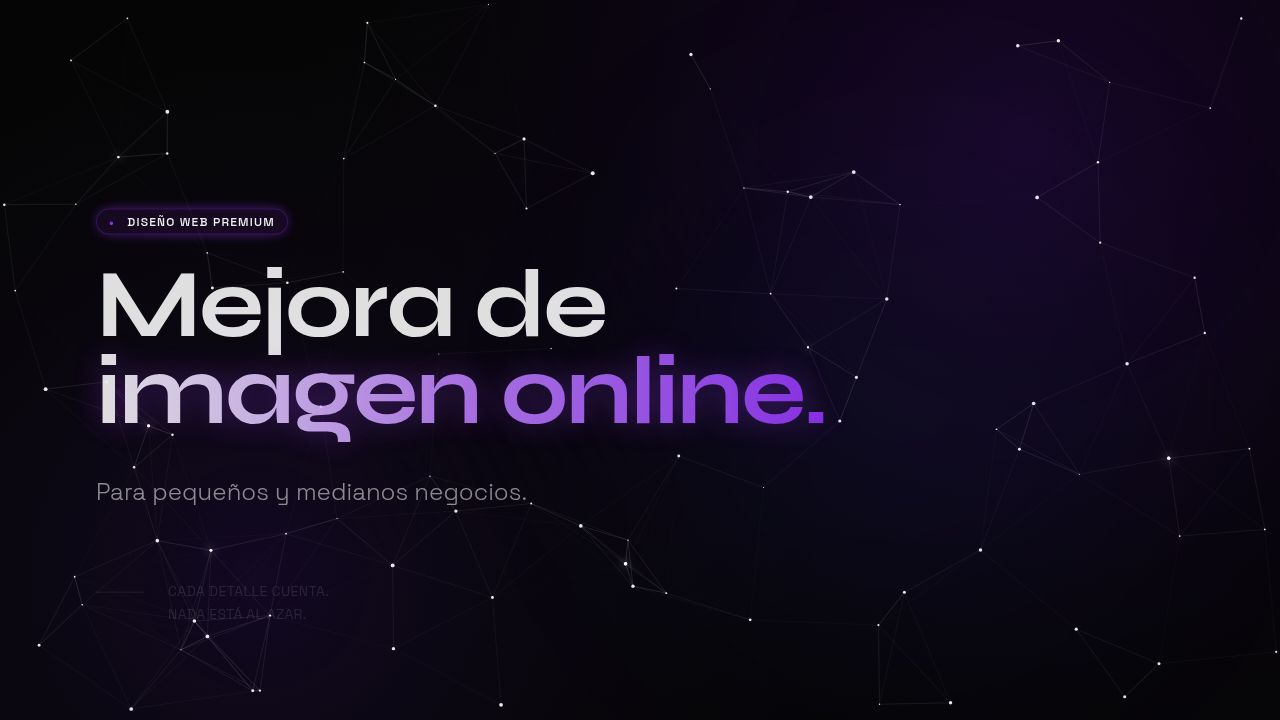
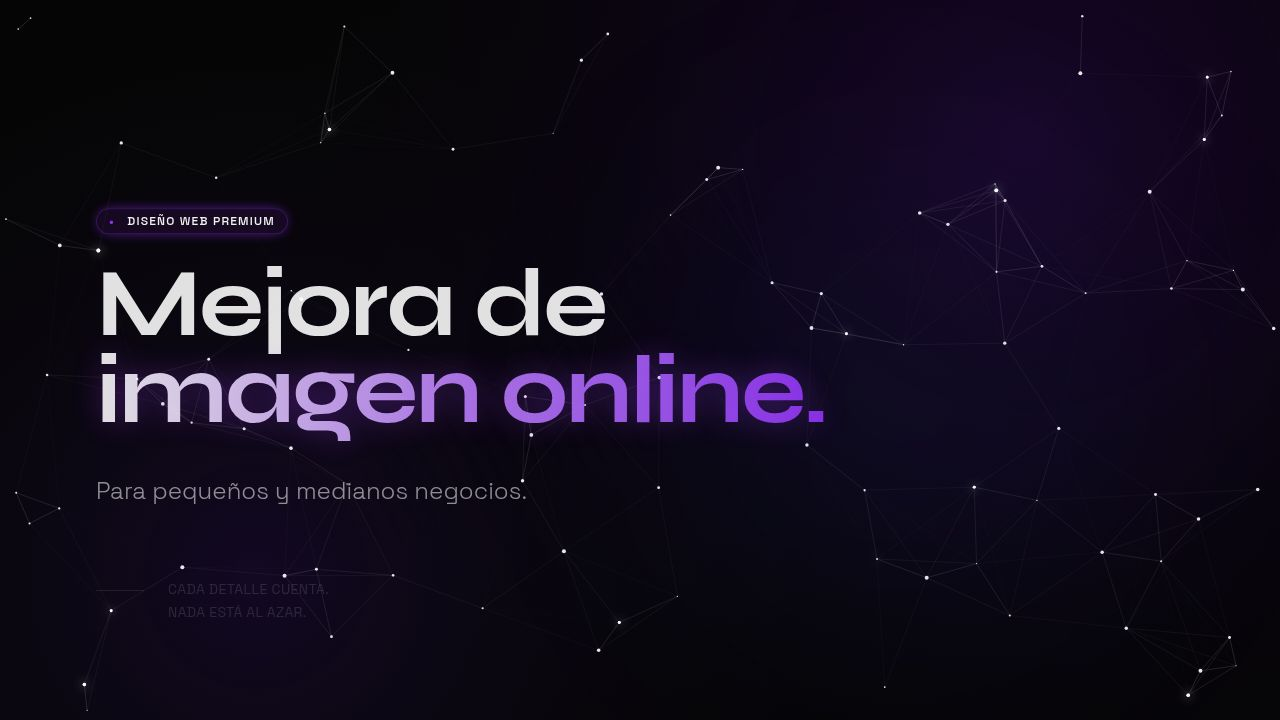
Update email subscription service to use Maileon instead of Beehiiv
Replace Beehiiv API integration with Maileon's hosted signup form endpoint in the email subscription service.

Replit-Commit-Author: Agent
Replit-Commit-Session-Id: eed6d0d3-b248-4ab2-9ba3-e655bf916a93
Replit-Commit-Checkpoint-Type: full_checkpoint
Replit-Commit-Event-Id: b0c730f8-2973-49b3-9893-55662908fa28
Replit-Commit-Screenshot-Url: https://storage.googleapis.com/screenshot-production-us-central1/a56d19fc-b351-4805-9af4-5c820c16ad90/eed6d0d3-b248-4ab2-9ba3-e655bf916a93/lHGqwWh
Replit-Helium-Checkpoint-Created: true

diff --git a/server/routes.ts b/server/routes.ts
@@ -111,42 +111,25 @@ export async function registerRoutes(
         return res.status(400).json({ message: "Email no válido." });
       }
 
-      const apiKey = process.env.BEEHIIV_API_KEY;
-      let pubId = process.env.BEEHIIV_PUBLICATION_ID;
-      if (pubId && !pubId.startsWith("pub_")) {
-        pubId = `pub_${pubId}`;
-      }
+      const MAILEON_SIGNUP_URL = "https://emt-hja6ndzsh.topmailer.net/hp/NpSmjC-4bTM9BKn5O0-_GA/signup";
 
-      if (!apiKey || !pubId) {
-        console.error("Missing BEEHIIV_API_KEY or BEEHIIV_PUBLICATION_ID");
-        return res.status(500).json({ message: "Servicio no configurado. Inténtalo más tarde." });
-      }
-
-      const response = await fetch(
-        `https://api.beehiiv.com/v2/publications/${pubId}/subscriptions`,
-        {
-          method: "POST",
-          headers: {
-            "Content-Type": "application/json",
-            Authorization: `Bearer ${apiKey}`,
+      const response = await fetch(MAILEON_SIGNUP_URL, {
+        method: "POST",
+        headers: {
+          "Content-Type": "application/json",
+        },
+        body: JSON.stringify({
+          standard: {
+            EMAIL: normalized,
+            FIRSTNAME: "",
+            LASTNAME: "",
           },
-          body: JSON.stringify({
-            email: normalized,
-            reactivate_existing: true,
-            send_welcome_email: true,
-            double_opt_override: "on",
-          }),
-        }
-      );
+        }),
+      });
 
       if (!response.ok) {
-        const errData = await response.json().catch(() => ({}));
-        console.error("Beehiiv API error:", response.status, errData);
-
-        if (response.status === 409 || response.status === 422) {
-          return res.json({ success: true });
-        }
-
+        const errText = await response.text().catch(() => "");
+        console.error("Maileon API error:", response.status, errText);
         return res.status(500).json({ message: "No se ha podido registrar. Inténtalo de nuevo." });
       }
 

diff --git a/replit.md b/replit.md
@@ -5,7 +5,7 @@ Premium web design agency landing page for "Izan & Xaloc" (IX.), based in Menorc
 ## Architecture
 
 - **Frontend**: React 19 + Vite + Tailwind CSS v4 + Framer Motion
-- **Backend**: Express 5 (serves static files in production, API route for contact form)
+- **Backend**: Express 5 (serves static files in production, API routes for contact form and email subscription)
 - **Email**: Nodemailer via Gmail SMTP (uses `GMAIL_APP_PASSWORD` secret)
 
 ## Key Files
@@ -13,6 +13,11 @@ Premium web design agency landing page for "Izan & Xaloc" (IX.), based in Menorc
 ### Frontend
 - `client/src/App.tsx` — Router (wouter)
 - `client/src/pages/Home.tsx` — Main page, composes all sections
+- `client/src/pages/EmailDiario.tsx` — Email subscription capture page
+- `client/src/pages/Confirmado.tsx` — Post-confirmation landing page
+- `client/src/pages/PoliticaPrivacidad.tsx` — Privacy policy
+- `client/src/pages/AvisoLegal.tsx` — Legal notice
+- `client/src/pages/PoliticaCookies.tsx` — Cookie policy
 - `client/src/components/sections/` — Hero, Perception, Services, Context, Process, About, Contact, ContactForm
 - `client/src/components/layout/` — Navbar, InteractiveBackground, FadeIn
 - `client/src/lib/utils.ts` — `cn()` utility (clsx + tailwind-merge)
@@ -20,7 +25,7 @@ Premium web design agency landing page for "Izan & Xaloc" (IX.), based in Menorc
 
 ### Backend
 - `server/index.ts` — Express app setup
-- `server/routes.ts` — `/api/contact` POST endpoint (email via Nodemailer)
+- `server/routes.ts` — `/api/contact` POST (Nodemailer) + `/api/subscribe` POST (Maileon)
 - `server/mailer.ts` — Gmail SMTP transporter factory
 - `server/vite.ts` — Vite dev middleware
 - `server/static.ts` — Production static file serving
@@ -32,20 +37,32 @@ Premium web design agency landing page for "Izan & Xaloc" (IX.), based in Menorc
 
 ## Pages
 - `/` — Main landing page (Hero, Perception, Services, Context, Process, About, Contact)
-- `/email-diario` — Email subscription capture page (Beehiiv integration)
+- `/email-diario` — Email subscription capture page (Maileon integration)
+- `/confirmado` — Post-confirmation page (redirect target after email confirmation)
+- `/politica-privacidad` — Privacy policy
+- `/aviso-legal` — Legal notice
+- `/politica-cookies` — Cookie policy
 
 ## Design
 - Dark aesthetic with purple accent: `hsl(270, 100%, 60%)`
 - Interactive particle background (canvas-based)
 - Team photo with removed background: `client/public/team-photo.png`
-- 5-step contact form: businessName → contact → hasWebsite → goal → values
+- 3-step contact form: businessName → contact → hasWebsite
 - Email sends FROM `[email redacted]` TO `[email redacted]`
+- NEVER use the word "newsletter" — always "email diario"
 
-## Email Diario (Beehiiv)
+## Email Diario (Maileon / IONOS)
 - Page at `/email-diario` captures email subscriptions
-- Backend `/api/subscribe` forwards to Beehiiv API
-- Requires secrets: `BEEHIIV_API_KEY` and `BEEHIIV_PUBLICATION_ID`
-- Beehiiv handles confirmation emails and subscriber management
+- Backend `/api/subscribe` forwards to Maileon hosted form endpoint
+- Maileon URL: `https://emt-hja6ndzsh.topmailer.net/hp/NpSmjC-4bTM9BKn5O0-_GA/signup`
+- No API key needed — uses Maileon's public hosted form endpoint
+- Maileon handles double opt-in confirmation emails and subscriber management
+- `/confirmado` page is the redirect target after email confirmation (configure in Maileon)
+- Privacy checkbox required before subscribing
+
+## Contact Form
+- 3-step form: business name → contact info → has website?
+- Sends email via Nodemailer/Gmail SMTP to [email redacted]
 
 ## Dependencies (minimal)
 - Runtime: express, nodemailer, react, react-dom, framer-motion, lucide-react, wouter, clsx, tailwind-merge, tw-animate-css